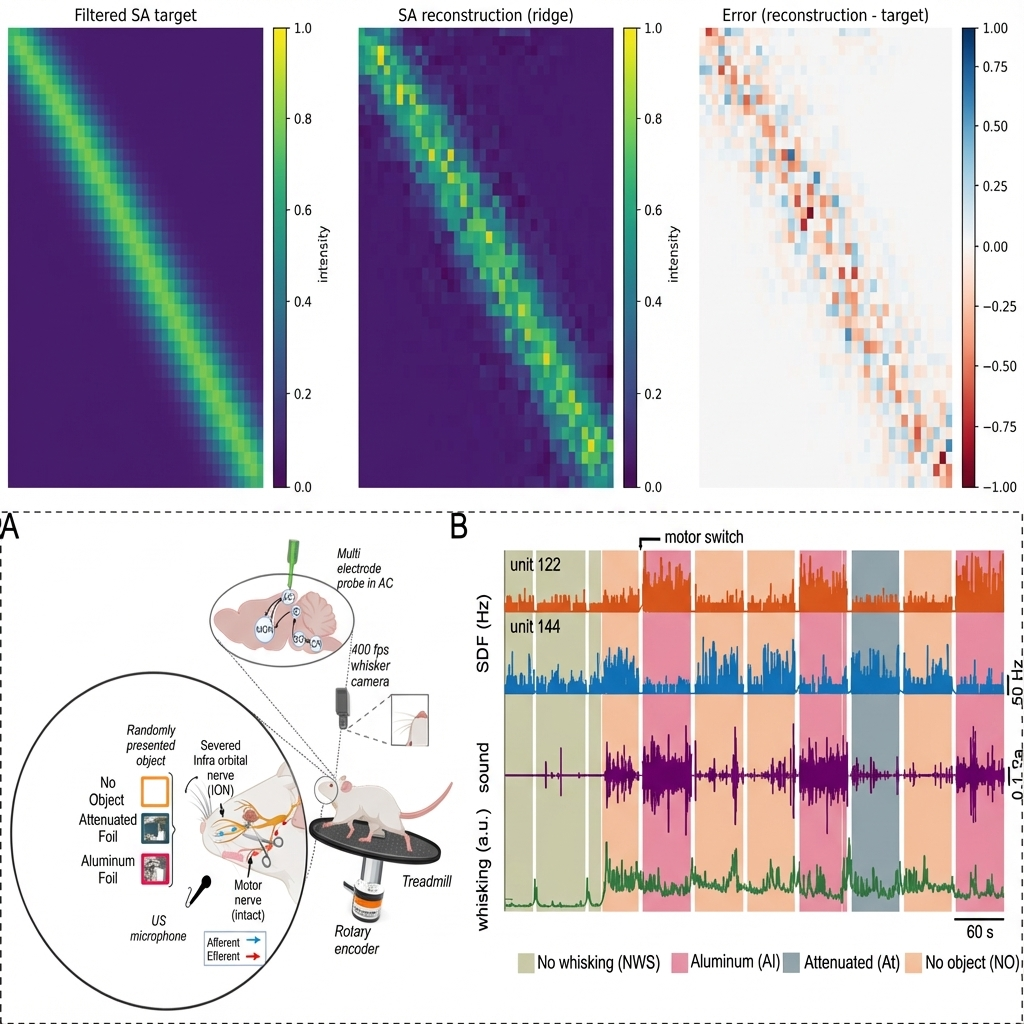
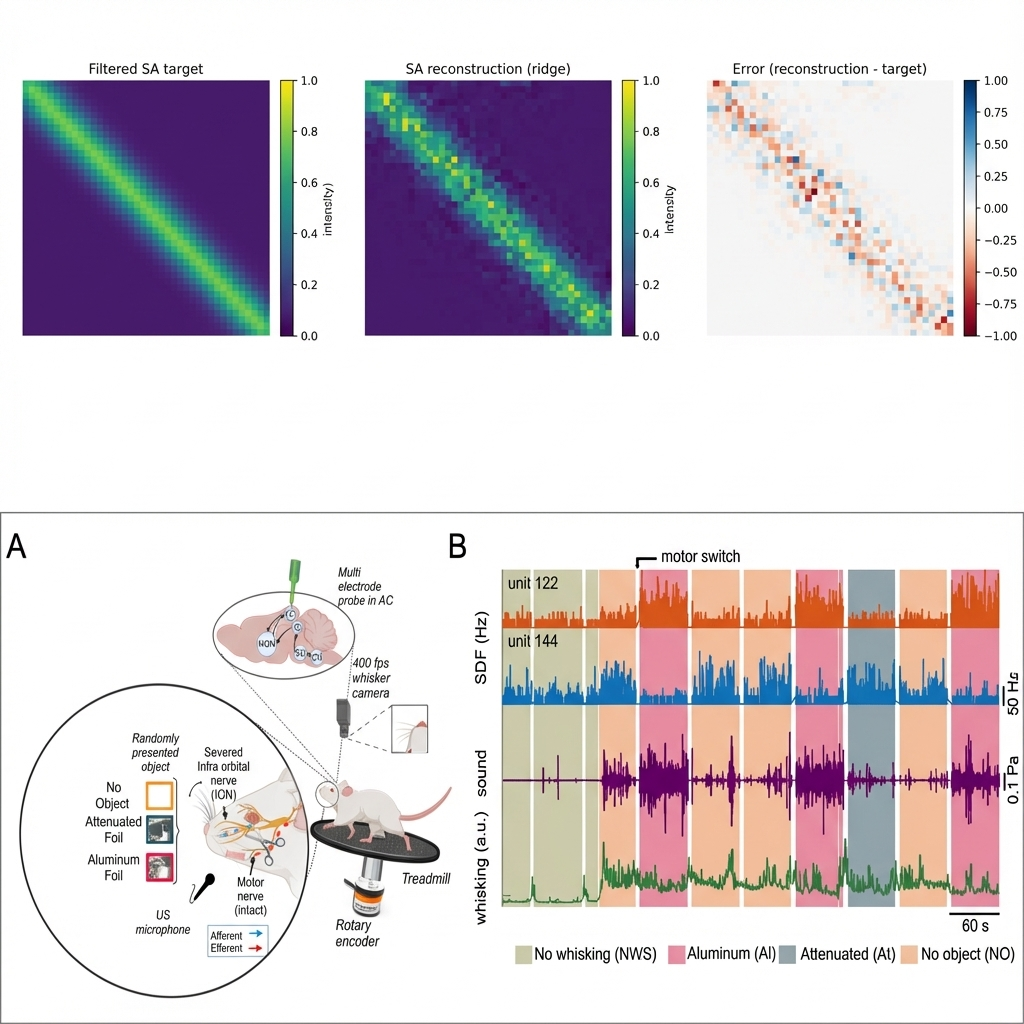
Update About image to user-provided combined figure

diff --git a/components/AboutSection.tsx b/components/AboutSection.tsx
@@ -11,10 +11,10 @@ export function About() {
                         <div className="relative rounded-[2rem] overflow-hidden border border-white/10 bg-cool-900/50 backdrop-blur-sm">
                             <div className="aspect-[3/4] relative">
                                 <Image
-                                    src="/images/about_combined.png"
+                                    src="/images/combined.png"
                                     alt="Neural Reconstruction Analysis"
                                     fill
-                                    className="object-cover"
+                                    className="object-contain"
                                 />
                             </div>
                             <div className="p-6 md:p-8 space-y-4">
